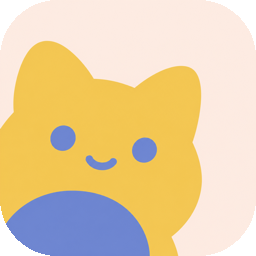
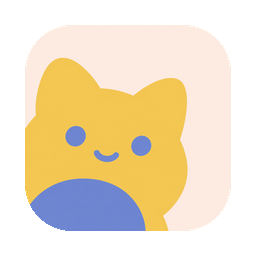
fix(ui): 真撤回（停止后从对话列表移除）+ dock 图标按 macOS 规范对齐
1. 撤回（用户反馈：点停止后原消息还在列表里）：新增 client.recallLastUserPrompt，
   停止时把最后一条用户消息从对话列表移除（真撤回）并回填输入框可编辑重发，
   一并清理未完成占位（含取消计时器）。补撤回测试。

2. dock 图标大小不对（用户反馈）：问 ChatGPT 得到 macOS 图标规范——
   1024×1024 画布 + 824×824 squircle 内容 + 每边 100px 透明 padding + 185px 圆角。
   原来是全画布无 padding（显得太大）。按规范用 PIL 重新生成 niebie-logo.png
   和 icon-*.png（含透明 padding + 精确圆角），重启桌面后 dock 尺寸对齐其他 app。

验证：flutter analyze + 15 测试全绿。

diff --git a/apps/mobile/lib/src/state/mobile_bridge_client.dart b/apps/mobile/lib/src/state/mobile_bridge_client.dart
@@ -406,6 +406,26 @@ class MobileBridgeClient extends ChangeNotifier {
     await replayMissedEvents(sessionId);
   }
 
+  /// 撤回最后一条用户消息：从时间线移除（真撤回），返回其内容供输入框编辑重发。
+  String? recallLastUserPrompt(String sessionId) {
+    final items = _timelineBySession[sessionId];
+    if (items == null || items.isEmpty) return null;
+    for (int i = items.length - 1; i >= 0; i--) {
+      if (items[i] is UserPromptItem) {
+        final msg = (items[i] as UserPromptItem).message;
+        items.removeAt(i);
+        // 一并清掉其后未完成的占位（并取消计时器），保持时间线干净
+        while (items.isNotEmpty && items.last is PendingResponseItem) {
+          final p = items.removeLast() as PendingResponseItem;
+          _pendingTimers.remove(p)?.cancel();
+        }
+        notifyListeners();
+        return msg;
+      }
+    }
+    return null;
+  }
+
   Future<void> replyPermission({
     required String sessionId,
     required String permissionId,

diff --git a/apps/mobile/test/mobile_app_test.dart b/apps/mobile/test/mobile_app_test.dart
@@ -594,4 +594,20 @@ void main() {
     expect(find.text('ABC'), findsOneWidget);
     client.dispose();
   });
+  testWidgets('撤回：点停止后最后一条用户消息从对话列表移除并回填输入框', (WidgetTester tester) async {
+    await pumpToSession(tester);
+    final client = tester.widget<NienieMobileApp>(find.byType(NienieMobileApp)).client;
+    final transport = client.transport as FakeBridgeTransport;
+
+    await tester.enterText(find.byKey(const Key('input-session-prompt')), '原始问题');
+    await tester.tap(find.byKey(const Key('btn-send-prompt')));
+    await tester.pump();
+    expect(find.text('原始问题'), findsOneWidget); // 已发出，在列表里
+
+    // 撤回：从对话列表移除 + 放回输入框
+    final recalled = client.recallLastUserPrompt('ses_alpha');
+    expect(recalled, '原始问题');
+    await tester.pump();
+    expect(find.text('原始问题'), findsNothing); // 已从列表撤回
+  });
 }

diff --git a/apps/mobile/lib/src/ui/nienie_mobile_app.dart b/apps/mobile/lib/src/ui/nienie_mobile_app.dart
@@ -377,13 +377,11 @@ class _NienieMobileAppState extends State<NienieMobileApp> {
 
   void _stopGeneration(MobileBridgeClient client) {
     client.cancelActiveSession();
-    // 撤回：把上次发出的 prompt 放回输入框，便于编辑后重发
-    final items = client.timelineFor(client.activeSession?.id ?? '');
-    for (final item in items.reversed) {
-      if (item is UserPromptItem) {
-        _promptController.text = item.message;
-        break;
-      }
+    // 撤回：把最后一条用户消息从对话列表移除（真撤回），放回输入框供编辑重发
+    final sessionId = client.activeSession?.id ?? '';
+    final recalled = client.recallLastUserPrompt(sessionId);
+    if (recalled != null) {
+      _promptController.text = recalled;
     }
     setState(() {});
   }
